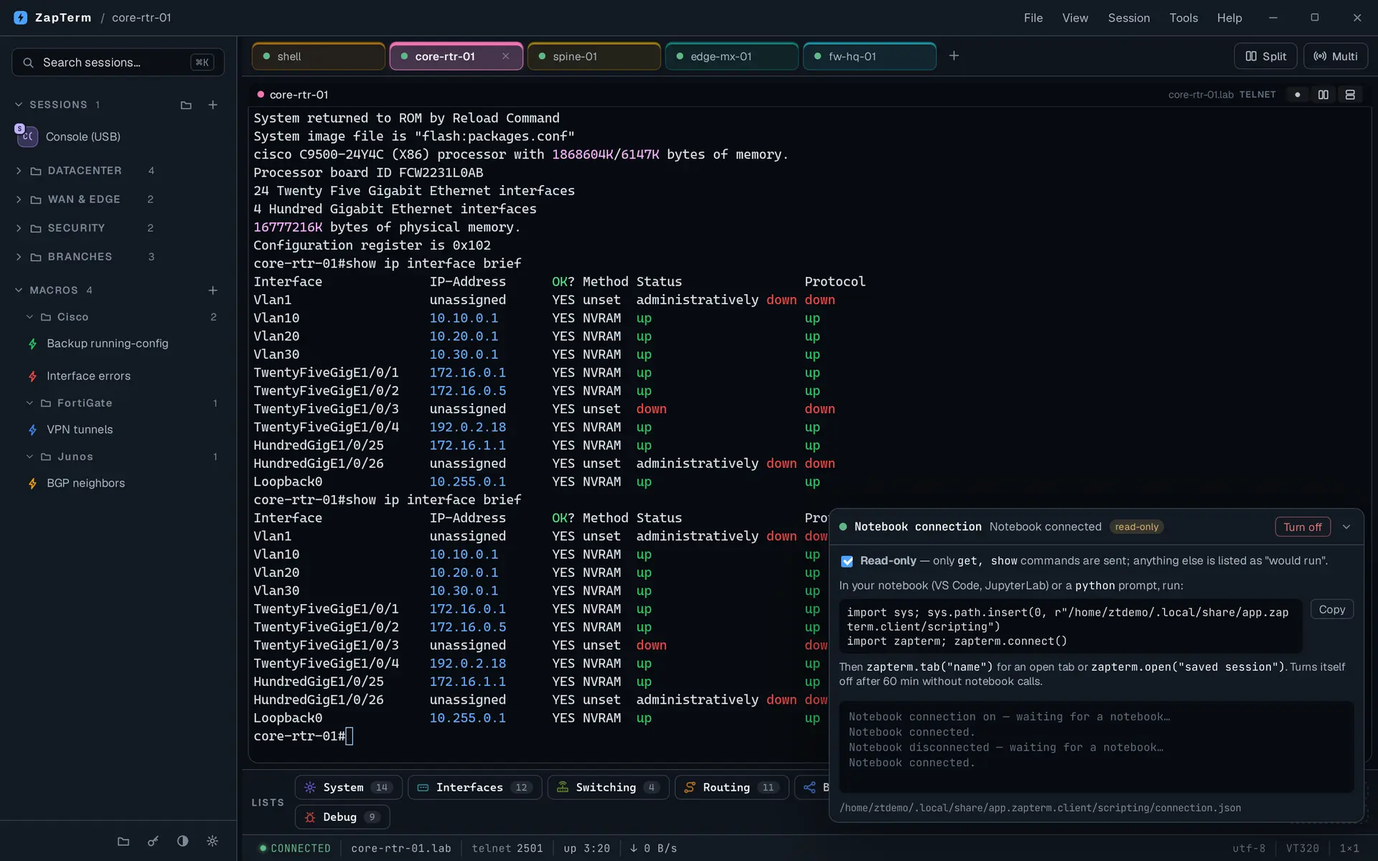
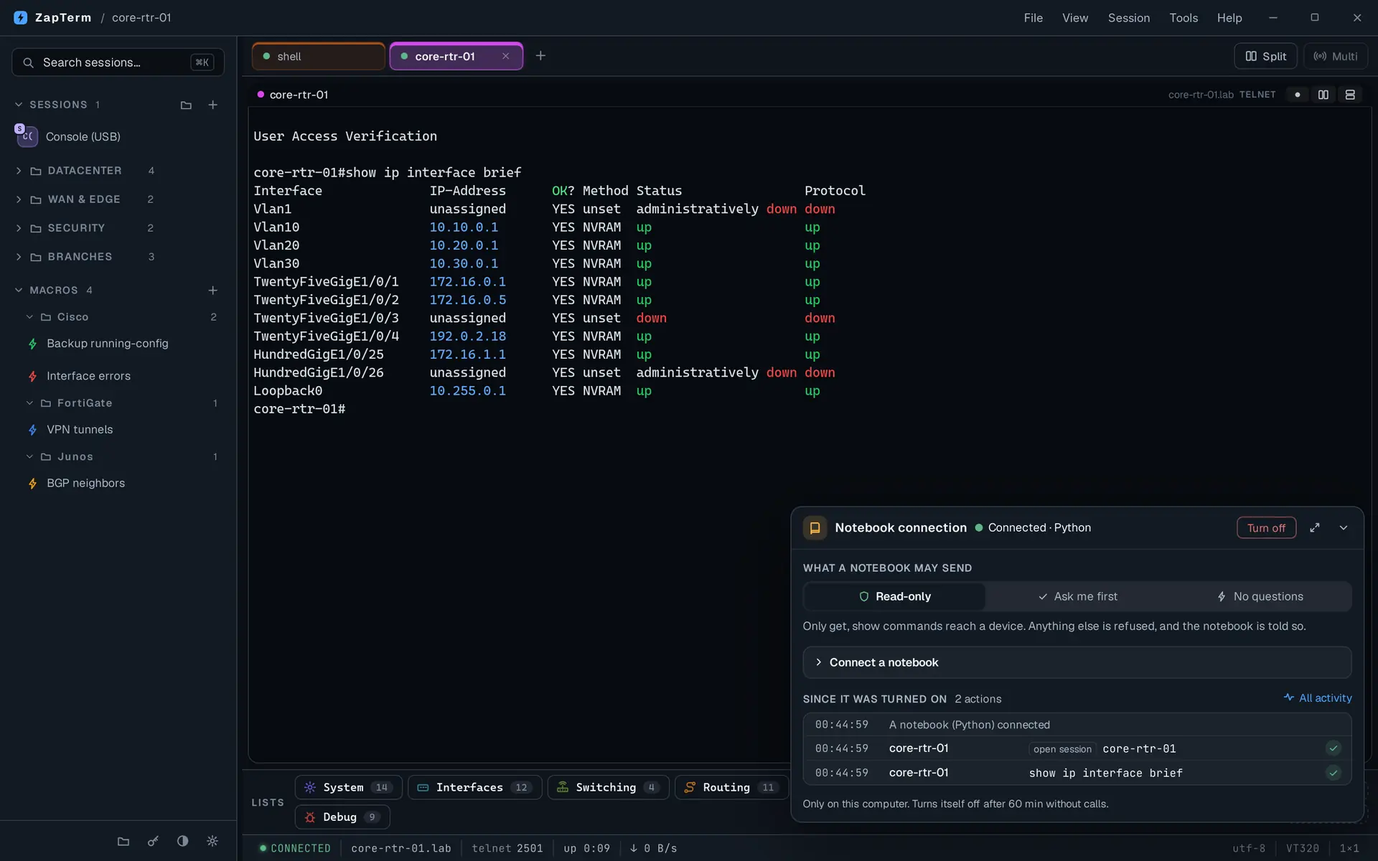
Website: update for 1.9.0
- Home: Run & compare in the workspace feature (new screenshot, SEND TO
  ALL wording), a feature for the AI assistant, bulk add of devices, and
  the privacy answer now says what an assistant receives.
- Automation: notebooks section follows the new panel (Tools -> Notebook
  connection, three levels); new sections for the AI assistant (MCP) and
  for the automation activity record; refreshed Tools menu and notebook
  screenshots.
- Q&A: new answers on the AI assistant (what it is, its limits, what it
  sees), the activity record, bulk add and --More-- paging; updated answers
  for side-by-side work, notebooks, privacy and updates (macOS).
- Privacy policy: the activity record among the data kept on the device,
  and a section on optional AI assistants. Dated for 1.9.0.

Screenshots are of the real app against simulated lab devices.

Claude-Session: https://claude.ai/code/session_013pWZVjAGGTih8bVJEUnWku

Changed region(s): [[0.4062, 0.4317, 1.0, 0.9558], [0.1875, 0.1233, 0.625, 0.8633], [0.2812, 0.0308, 0.6875, 0.0925]]

diff --git a/site/automation.html b/site/automation.html
@@ -4,7 +4,7 @@
   <meta charset="utf-8">
   <meta name="viewport" content="width=device-width, initial-scale=1">
   <title>Automation — ZapTerm</title>
-  <meta name="description" content="Automate network devices with Python from ZapTerm: scripts that run on many devices with Dry run and Read-only modes, Jinja2 templates, and Jupyter or VS Code notebooks driving real terminal tabs.">
+  <meta name="description" content="Automate network devices from ZapTerm: Python scripts with Dry run and Read-only modes, Jinja2 templates, Jupyter or VS Code notebooks, and an AI assistant over MCP that works within the limits you set — all in real terminal tabs, with a record of every command.">
   <meta name="theme-color" content="#0b0d14">
   <link rel="icon" href="icon.svg" type="image/svg+xml">
   <link rel="stylesheet" href="style.css">
@@ -36,12 +36,13 @@
     <div class="wrap">
       <p class="kicker">Automation</p>
       <h1>Python drives the devices.<br><span class="grad">You watch every command.</span></h1>
-      <p class="lede">ZapTerm runs your Python scripts and notebooks against the sessions you already
-        have. Every command is typed in a real terminal tab, through the same jump hosts, vault passwords
-        and login scripts as when you connect by hand — so nothing happens out of sight.</p>
+      <p class="lede">ZapTerm runs your Python scripts and notebooks — and lets an AI assistant work — against
+        the sessions you already have. Every command is typed in a real terminal tab, through the same jump
+        hosts, vault passwords and login scripts as when you connect by hand — so nothing happens out of sight.</p>
       <nav class="auto-toc" aria-label="On this page">
         <a href="#how">How it works</a><a href="#run">Run a script</a><a href="#audit">Example: audit</a>
-        <a href="#template">Example: Jinja2 template</a><a href="#notebooks">Notebooks</a><a href="#api">API</a>
+        <a href="#template">Example: Jinja2 template</a><a href="#notebooks">Notebooks</a>
+        <a href="#assistant">AI assistant</a><a href="#activity">Activity</a><a href="#api">API</a>
       </nav>
     </div>
   </section>
@@ -49,8 +50,8 @@
   <section id="how" class="auto-section">
     <div class="wrap">
       <h2>How it works</h2>
-      <div class="auto-flow" aria-label="Your script asks ZapTerm to run a command; ZapTerm types it in a terminal tab connected to the device and returns the output.">
-        <div class="auto-box"><b>Your script or notebook</b><code>out = sw.run("show version")</code><span>decides what to do</span></div>
+      <div class="auto-flow" aria-label="Your script, notebook or AI assistant asks ZapTerm to run a command; ZapTerm types it in a terminal tab connected to the device and returns the output.">
+        <div class="auto-box"><b>Your script, notebook or assistant</b><code>out = sw.run("show version")</code><span>decides what to do</span></div>
         <div class="auto-arrow" aria-hidden="true">⇄</div>
         <div class="auto-box accent"><b>ZapTerm</b><code>a real tab you can see</code><span>connects, types, reads the output</span></div>
         <div class="auto-arrow" aria-hidden="true">⇄</div>
@@ -78,7 +79,7 @@
       <div class="auto-two">
       <figure class="window auto-shot">
         <div class="window-bar"><i></i><i></i><i></i></div>
-        <img src="img/auto-tools-menu.webp" width="860" height="420" alt="The Tools menu with Run Python script, Script examples, Allow notebook connection, Send command list, Active tunnels and Settings." loading="lazy" data-zoom>
+        <img src="img/auto-tools-menu.webp" width="859" height="420" alt="The Tools menu with Run Python script, Script examples, AI assistant (MCP), Notebook connection, Automation activity, Send command list, Active tunnels and Settings." loading="lazy" data-zoom>
       </figure>
       <figure class="window auto-shot">
         <div class="window-bar"><i></i><i></i><i></i></div>
@@ -225,7 +226,7 @@ for row in rows:
         look at what the device really prints, write the parsing against it, try again. A Jupyter notebook in
         JupyterLab or VS Code does that, driving ZapTerm's tabs with the same <code>zapterm</code> module.</p>
       <ol class="auto-steps">
-        <li><b>Tools → Allow notebook connection…</b> The panel shows the two lines a notebook needs; Copy puts them on the
+        <li><b>Tools → Notebook connection…</b> The panel shows the two lines a notebook needs; Copy puts them on the
           clipboard. It is local to your computer, off by default, and turns itself off after 60 minutes without
           notebook calls.</li>
         <li><b>In the notebook,</b> <code>import zapterm</code> and <code>zapterm.connect()</code>. Then
@@ -235,7 +236,7 @@ for row in rows:
       </ol>
       <figure class="window auto-shot narrow">
         <div class="window-bar"><i></i><i></i><i></i></div>
-        <img src="img/auto-notebook-panel.webp" width="1130" height="665" alt="The Notebook connection panel: waiting for a notebook, Read-only ticked, and the sys.path and import lines to paste into the notebook." loading="lazy" data-zoom>
+        <img src="img/auto-notebook-panel.webp" width="1210" height="920" alt="The Notebook connection panel: waiting for a notebook, what a notebook may send set to Read-only (the other levels are Ask me first and No questions), the sys.path and import lines to paste into the notebook, and an empty list of what was sent since it was turned on." loading="lazy" data-zoom>
       </figure>
       <div class="auto-two tall">
       <figure class="window auto-shot">
@@ -245,14 +246,79 @@ for row in rows:
       </figure>
       <figure class="window auto-shot">
         <div class="window-bar"><i></i><i></i><i></i></div>
-        <img src="img/auto-notebook-zapterm.webp" width="1920" height="1200" alt="ZapTerm at the same time: the core-rtr-01 tab shows show ip interface brief typed by the notebook, and the panel says Notebook connected, read-only." loading="lazy" data-zoom>
+        <img src="img/auto-notebook-zapterm.webp" width="1920" height="1200" alt="ZapTerm at the same time: the core-rtr-01 tab shows show ip interface brief typed by the notebook, and the panel says Connected · Python, Read-only, and lists the session it opened and the command it sent." loading="lazy" data-zoom>
         <figcaption>…and ZapTerm at the same moment.</figcaption>
       </figure>
       </div>
-      <p class="auto-note">A notebook starts <b>read-only</b>: only <code>get</code> and <code>show</code> reach the device.
-        Untick Read-only in the panel only when you mean to change something — bigger changes belong in a script you've
-        dry-run. When the cells work, copy them into a <code>.py</code> file, loop over <code>zapterm.sessions(folder)</code>
+      <p class="auto-note">A notebook starts <b>Read-only</b>: only <code>get</code> and <code>show</code> reach the device.
+        Move the panel's control to <b>Ask me first</b> when you mean to change something: ZapTerm then shows each
+        other command and waits for your Yes. Bigger changes belong in a script you've dry-run. When the cells work, copy them into a <code>.py</code> file, loop over <code>zapterm.sessions(folder)</code>
         and add <code>report()</code> lines.</p>
+    </div>
+  </section>
+
+  <section id="assistant" class="auto-section">
+    <div class="wrap">
+      <h2>An AI assistant, on your terms</h2>
+      <p class="auto-lede">Ask in plain words — "which interfaces are down on core-rtr-01?", "compare the HA state of
+        the two firewalls" — and an assistant that speaks MCP (the Model Context Protocol) runs the commands through
+        ZapTerm and reads the answers. It gets the same deal as a script: real tabs you can watch, and rules that
+        ZapTerm enforces, whatever the assistant decides.</p>
+      <ol class="auto-steps">
+        <li><b>Tools → AI assistant (MCP)…</b> The panel shows the configuration to paste into your assistant
+          (Claude Desktop, or any other MCP client that can start a local server); Copy puts it on the clipboard.
+          It points at <code>zapterm_mcp.py</code>, plain Python with no packages to install.</li>
+        <li><b>Quit the assistant completely and open it again,</b> so it reads the configuration.</li>
+        <li><b>Ask it something about a device.</b> The panel shows who connected, by name, and every command as
+          it happens.</li>
+      </ol>
+      <figure class="window auto-shot">
+        <div class="window-bar"><i></i><i></i><i></i></div>
+        <img src="img/auto-assistant.webp" width="1920" height="1200" alt="ZapTerm with an AI assistant connected in Read-only. The fw-hq-01 tab shows get system status typed by the assistant; the panel lists what it sent since it was turned on — open session fw-hq-01, get system status, get system performance status, show ip bgp summary and show interfaces status on core-rtr-01 — and marks 'configure terminal' as blocked." loading="lazy" data-zoom>
+      </figure>
+      <div class="auto-modes">
+        <div><span class="mode ro">Read-only</span><p>The default. Only commands starting with <code>get</code> or
+          <code>show</code> (the same list as for scripts, set in the Run script dialog) reach a device. Anything else is refused, and the assistant is
+          told it was not sent.</p></div>
+        <div><span class="mode dry">Ask me first</span><p>Display commands go straight through. Before any other
+          command, ZapTerm shows it to you, says who is asking, and waits for your Yes.</p></div>
+        <div><span class="mode real">No questions</span><p>Every command is sent as it comes. Only for work you
+          would hand over without watching.</p></div>
+      </div>
+      <div class="auto-points">
+        <div><h3>What it can do</h3><p>List open tabs and saved sessions, open a saved session, run a command in a
+          tab and read its output, and ask which level is on. Five tools, nothing else.</p></div>
+        <div><h3>What it can't</h3><p>See or type a password: ZapTerm logs in from its vault, and no tool exposes
+          one. Nor chain commands past the rules — a line with <code>;</code>, <code>|</code>, <code>&amp;</code>,
+          <code>&lt;</code>, <code>&gt;</code>, a backtick or <code>$(</code> is not a display command.</p></div>
+        <div><h3>One at a time, only on this computer</h3><p>The connection is local, off until you turn it on,
+          accepts one client, and turns itself off after 60 minutes without calls. A notebook is refused while
+          the assistant's entry is on, and the other way round.</p></div>
+      </div>
+      <p class="auto-note"><b>What leaves your computer:</b> ZapTerm sends nothing anywhere. But what your devices
+        print in answer to the assistant's commands goes to that assistant, and so to its provider — think about
+        which devices and which commands you let it reach. Passwords are not part of it.</p>
+    </div>
+  </section>
+
+  <section id="activity" class="auto-section">
+    <div class="wrap">
+      <h2>A record of everything that was sent</h2>
+      <p class="auto-lede">Every command a script, a notebook or an assistant sent — or tried to send — is written to a
+        plain text file on your computer, one line per event: when, who, on which device, the command, and what
+        became of it. <b>Tools → Automation activity…</b> shows it with counters, filters and search.</p>
+      <figure class="window auto-shot">
+        <div class="window-bar"><i></i><i></i><i></i></div>
+        <img src="img/auto-activity.webp" width="1600" height="1173" alt="Automation activity: 9 actions, 8 sent and 1 blocked, with the last 14 days. One card per visit: the assistant's, with the sessions it opened, the commands it ran on fw-hq-01 and core-rtr-01 and 'configure terminal' blocked by Read-only; and a notebook's, with show ip interface brief." loading="lazy" data-zoom>
+      </figure>
+      <div class="auto-points">
+        <div><h3>What became of each command</h3><p>Sent, blocked by Read-only, declined by you, approved and sent,
+          no prompt in time, or an error — with how long it took.</p></div>
+        <div><h3>Commands, not output</h3><p>Only the command line is kept, never what the device printed (session
+          logging does that). Passwords that ZapTerm recognises in a command are masked: <code>set password ******</code>.</p></div>
+        <div><h3>Yours to keep or delete</h3><p>One file per month in the logs folder, tab-separated, readable in any
+          editor or spreadsheet. <b>Open file</b> and <b>Folder</b> take you there.</p></div>
+      </div>
     </div>
   </section>
 
@@ -267,7 +333,7 @@ for row in rows:
             <tr><td><code>zapterm.open(name)</code></td><td>Open a saved session in a new tab and wait until it is connected.</td></tr>
             <tr><td><code>zapterm.tab(name)</code> / <code>tabs()</code></td><td>A tab already open, by name / all open tabs.</td></tr>
             <tr><td><code>zapterm.sessions(folder)</code></td><td>Names of the saved sessions, or only those in a folder and its sub-folders.</td></tr>
-            <tr><td><code>s.run(cmd, timeout=30)</code></td><td>Type a command, wait for the prompt, return the output.</td></tr>
+            <tr><td><code>s.run(cmd, timeout=30)</code></td><td>Type a command, wait for the prompt, return the output. With <code>strict=True</code> it raises when Read-only keeps the command from being sent.</td></tr>
             <tr><td><code>s.send(text)</code> / <code>s.expect(pattern)</code></td><td>Type without waiting / wait for a text or regex to appear.</td></tr>
             <tr><td><code>s.send_secret("Name.Password")</code></td><td>Type a vault credential; the script never sees it.</td></tr>
             <tr><td><code>s.poll(cmd, until, every, max)</code></td><td>Repeat a command until a condition holds or time runs out.</td></tr>

diff --git a/site/faq.html b/site/faq.html
@@ -35,7 +35,7 @@
     <header class="section-head">
       <p class="kicker">Q&amp;A</p>
       <h1>Questions people ask</h1>
-      <p>Answers describe the latest version, <b data-version>v1.7.12</b>, and are updated with every release.</p>
+      <p>Answers describe the latest version, <b data-version>v1.9.0</b>, and are updated with every release.</p>
     </header>
 
     <div class="faq-tools">
@@ -107,7 +107,15 @@
         </details>
         <details id="many-at-once">
           <summary>Can I work on several devices side by side?</summary>
-          <p>Yes. Split a tab into panes as many times as you like, open a group of hosts as a grid, and broadcast what you type to all of them. Compare shows their output together so differences stand out.</p>
+          <p>Yes. Split a tab into panes as many times as you like, or open a group of hosts as a grid. Turn on Multi (it is per tab, and needs at least two sessions) and the SEND TO ALL bar types what you write in every session of that tab. Run &amp; compare then says whether they all answered the same and, when they didn't, shows the differences side by side; each pane's header is marked = (same everywhere) or A, B… (which version it printed).</p>
+        </details>
+        <details id="pager">
+          <summary>What happens when a device stops at --More-- while I compare?</summary>
+          <p>ZapTerm presses Space for you in that session until the prompt comes back (up to 200 pages), so the whole output is compared; the pager prompts themselves are left out of the comparison. It does the same for a line sent with Enter in the SEND TO ALL bar. "Page through --More--" in that bar turns it off. What you type straight into a pane is left alone.</p>
+        </details>
+        <details id="bulk-add">
+          <summary>Can I add many devices at once?</summary>
+          <p>Yes: File → Add devices in bulk… Paste one device per line (<code>host</code>, <code>host:port</code>, <code>name host</code> or <code>name host port</code>) or open a CSV file whose first line names the columns (name, host, port, protocol, username, folder, tags, notes, credential, jump_host). A preview marks every row New, Exists or Error before anything is added; devices already in the inventory are skipped. The credential and the jump host are given by name, so no password is ever in the list.</p>
         </details>
       </section>
       <section class="faq-group" data-group="lists">
@@ -149,7 +157,23 @@
         </details>
         <details id="notebooks">
           <summary>Can I use a Jupyter notebook or VS Code?</summary>
-          <p>Yes. Turn on Tools → Allow notebook connection…, then <code>import zapterm</code> and <code>zapterm.connect()</code> from a notebook or a Python prompt you started yourself. Every call is carried out on a real ZapTerm tab, so you see it happen.</p>
+          <p>Yes. Turn on Tools → Notebook connection…, then <code>import zapterm</code> and <code>zapterm.connect()</code> from a notebook or a Python prompt you started yourself. Every call is carried out on a real ZapTerm tab, so you see it happen. It starts Read-only; the panel has the same three levels as for an AI assistant.</p>
+        </details>
+        <details id="ai-assistant">
+          <summary>Can I connect an AI assistant such as Claude?</summary>
+          <p>Yes, any assistant that speaks MCP (the Model Context Protocol) and can start a local server, such as Claude Desktop. Tools → AI assistant (MCP)… shows the configuration to paste into it; it points at <code>zapterm_mcp.py</code>, plain Python with no packages to install. The assistant can list your tabs and saved sessions, open a session and run commands, all through ZapTerm's tabs, where you see them. <a href="automation.html#assistant">How it works →</a></p>
+        </details>
+        <details id="ai-limits">
+          <summary>Can the assistant change the configuration of my devices?</summary>
+          <p>Only if you let it. "What the assistant may send" has three levels: Read-only (the default — only commands starting with <code>get</code> or <code>show</code> reach a device, the same list as for scripts, and anything else is refused), Ask me first (ZapTerm shows each other command and waits for your Yes) and No questions (everything is sent). ZapTerm enforces the level, not the assistant: a refused command never reaches the device, and the assistant is told so.</p>
+        </details>
+        <details id="ai-privacy">
+          <summary>What does the assistant see? Does it get my passwords?</summary>
+          <p>It sees the names of your tabs and saved sessions, and what a device prints in answer to the commands it runs — that text goes to the assistant and so to its provider, so choose which devices and commands you let it reach. It never gets a password: ZapTerm logs in from its vault and no tool exposes or types one. The connection is local to your computer, off until you turn it on, and turns itself off after 60 minutes without calls.</p>
+        </details>
+        <details id="activity">
+          <summary>Is there a record of what a script, notebook or assistant did?</summary>
+          <p>Yes. Every command sent or attempted is written to a text file on your computer (one per month, in the logs folder): when, who, on which device, the command, and whether it was sent, blocked by Read-only, declined by you, approved, timed out or failed. Tools → Automation activity… shows it with counters, filters and search. Only the command line is kept, not the device's output, and passwords that ZapTerm recognises in a command are masked (<code>set password ******</code>).</p>
         </details>
         <details id="netconf">
           <summary>Does ZapTerm support NETCONF or RESTCONF?</summary>
@@ -160,11 +184,12 @@
         <h2>Privacy, updates &amp; licence</h2>
         <details id="privacy">
           <summary>Does it send any data anywhere?</summary>
-          <p>No. There is no account, no telemetry and no automatic update check: the app only connects to the devices you open, and to GitHub when you use Help → Check for updates. (This website asks GitHub for the latest release to point the download buttons at it.)</p>
+          <p>ZapTerm doesn't. There is no account, no telemetry and no automatic update check: the app only connects to the devices you open, and to GitHub when you use Help → Check for updates. (This website asks GitHub for the latest release to point the download buttons at it.)</p>
+          <p>The one thing to know: if you connect an AI assistant (Tools → AI assistant (MCP)…, off unless you turn it on), what your devices print in answer to its commands goes to that assistant, and so to its provider. Passwords do not.</p>
         </details>
         <details id="updates">
           <summary>How do I update ZapTerm?</summary>
-          <p>Help → Check for updates… asks GitHub for the newest version and shows it with its release notes. If you want it, ZapTerm downloads the installer that matches your copy, checks it against the SHA-256 GitHub publishes, and starts it (on Windows ZapTerm closes so the installer can replace it). Copies from the Microsoft Store are updated by the Store. Nothing is checked or downloaded unless you open that dialog.</p>
+          <p>Help → Check for updates… asks GitHub for the newest version and shows it with its release notes. If you want it, ZapTerm downloads the installer that matches your copy, checks it against the SHA-256 GitHub publishes, and starts it: on Windows ZapTerm closes so the installer can replace it; on macOS ZapTerm closes, the new version takes the place of the old one and ZapTerm opens again (if it can't replace itself, the disk image opens for you to drag it to Applications). Your sessions, vault and settings are not touched. Copies from the Microsoft Store are updated by the Store. Nothing is checked or downloaded unless you open that dialog.</p>
         </details>
         <details id="licence">
           <summary>Is it really free?</summary>

diff --git a/site/index.html b/site/index.html
@@ -40,11 +40,11 @@
   <section class="hero">
     <div class="glow glow-a"></div><div class="glow glow-b"></div>
     <div class="wrap hero-inner">
-      <p class="eyebrow"><span class="dot"></span> Latest <span data-version>v1.7.12</span> · free &amp; open source</p>
+      <p class="eyebrow"><span class="dot"></span> Latest <span data-version>v1.9.0</span> · free &amp; open source</p>
       <h1>The terminal built for<br><span class="grad">network engineers</span></h1>
       <p class="lede">SSH, Telnet and Serial in one fast app. Command lists for every vendor you touch,
-        hints as you type, split panes, broadcast to many devices, a credential vault and
-        Python automation — on Windows, macOS and Linux.</p>
+        hints as you type, split panes, broadcast to many devices, a credential vault,
+        Python automation and a safe way to let an AI assistant help — on Windows, macOS and Linux.</p>
       <div class="cta">
         <a class="btn btn-primary" href="#download" data-dl-primary>Download ZapTerm</a>
         <a class="btn btn-ghost" href="https://github.com/CarlosTejeiro/ZapTerm">View source</a>
@@ -117,17 +117,19 @@
       <article class="feature">
         <div class="feature-text">
           <span class="tag">Workspace</span>
-          <h3>Split panes and broadcast</h3>
+          <h3>Split panes, broadcast and compare</h3>
           <p>Split any tab into panes and watch a router, a switch and a firewall side by side.
-            Turn on <b>Multi</b> and one master input sends the same command to every pane —
-            with <b>Run &amp; compare</b> to line the outputs up.</p>
+            Turn on <b>Multi</b> and the <b>SEND TO ALL</b> bar types the same command in every pane
+            of the tab. <b>Run &amp; compare</b> then tells you whether they all answered the same —
+            and shows the differences side by side when they didn't.</p>
           <ul class="ticks">
-            <li>Recursive splits, horizontal and vertical</li>
+            <li>Each pane is marked <b>=</b>, <b>A</b> or <b>B</b>: which answer it gave</li>
+            <li>Pages through <code>--More--</code> for you, so nothing is compared cut short</li>
             <li>Broadcast groups open many hosts as a grid</li>
             <li>Command palette (<kbd>Ctrl</kbd>+<kbd>K</kbd>) for sessions and actions</li>
           </ul>
         </div>
-        <figure class="shot"><img src="img/multi.webp" width="1920" height="1200" alt="Three panes — a Cisco core router, an Arista spine and a FortiGate — with the broadcast bar at the bottom about to send 'show version' to all three hosts." data-zoom></figure>
+        <figure class="shot"><img src="img/compare.webp" width="1920" height="1200" alt="Two FortiGates of an HA pair side by side with Multi on. Run &amp; compare of 'get system status' says Output differs: 2 versions, marks the panes A and B, and shows the four lines that differ side by side: IPS database, serial number, hostname and HA role." data-zoom></figure>
       </article>
 
       <article class="feature flip">
@@ -156,6 +158,7 @@
             sessions, port forwarding, anti-idle keepalives and macros that run on connect.</p>
           <ul class="ticks">
             <li>Import from <code>~/.ssh/config</code>, PuTTY, MobaXterm and SecureCRT</li>
+            <li>Add devices in bulk from a pasted list or a CSV file</li>
             <li>Login automation with expect / send steps</li>
             <li>SFTP browser with streaming transfers</li>
           </ul>
@@ -188,6 +191,24 @@
           <figure class="shot"><img src="img/script-run.webp" width="990" height="580" alt="The Run script dialog for hello.py with Dry run, Read-only and Run modes." data-zoom></figure>
           <figure class="shot"><img src="img/script-panel.webp" width="1124" height="470" alt="The script panel after a dry run: core-rtr-01 OK, and a log saying it would run 'uname -a'." data-zoom></figure>
         </div>
+      </article>
+
+      <article class="feature flip">
+        <div class="feature-text">
+          <span class="tag">AI assistant</span>
+          <h3>Let an assistant look — you set the limits</h3>
+          <p>Connect an AI assistant that speaks MCP (Claude Desktop, or any other MCP client) and ask it
+            about your network in plain words. It works through ZapTerm's tabs, where you see every command,
+            and ZapTerm — not the assistant — decides what may be sent.</p>
+          <ul class="ticks">
+            <li><b>Read-only</b> by default: only display commands reach a device</li>
+            <li><b>Ask me first</b>: any other command waits for your Yes</li>
+            <li>No tool shows or types a password; ZapTerm logs in from its vault</li>
+            <li>Everything it sent, or tried to send, is kept in a text file on your computer</li>
+          </ul>
+          <p><a href="automation.html#assistant">How to connect one, and what it can do →</a></p>
+        </div>
+        <figure class="shot"><img src="img/auto-assistant.webp" width="1920" height="1200" alt="ZapTerm with an AI assistant connected in Read-only: the panel lists what it sent since it was turned on — open session fw-hq-01, get system status, show ip bgp summary on core-rtr-01 — and marks 'configure terminal' as blocked." data-zoom></figure>
       </article>
     </div>
   </section>
@@ -280,7 +301,7 @@
       <header class="section-head">
         <p class="kicker">Q&amp;A</p>
         <h2>Questions people ask</h2>
-        <p>Answers describe the latest version, <b data-version>v1.7.12</b>, and are updated with every release.</p>
+        <p>Answers describe the latest version, <b data-version>v1.9.0</b>, and are updated with every release.</p>
       </header>
       <div class="faq-list">
         <form class="faq-search" action="faq.html" method="get" role="search">
@@ -298,7 +319,8 @@
         </details>
         <details id="privacy">
           <summary>Does it send any data anywhere?</summary>
-          <p>No. There is no account, no telemetry and no automatic update check: the app only connects to the devices you open, and to GitHub when you use Help → Check for updates. (This website asks GitHub for the latest release to point the download buttons at it.)</p>
+          <p>ZapTerm doesn't. There is no account, no telemetry and no automatic update check: the app only connects to the devices you open, and to GitHub when you use Help → Check for updates. (This website asks GitHub for the latest release to point the download buttons at it.)</p>
+          <p>The one thing to know: if you connect an AI assistant (Tools → AI assistant (MCP)…, off unless you turn it on), what your devices print in answer to its commands goes to that assistant, and so to its provider. Passwords do not.</p>
         </details>
         <details id="import">
           <summary>Can I bring my sessions from another tool?</summary>

diff --git a/site/privacy.html b/site/privacy.html
@@ -32,7 +32,7 @@
     <header class="section-head">
       <p class="kicker">Privacy</p>
       <h1>Privacy policy</h1>
-      <p>Last updated: 22 November 2026 (version 1.7.16)</p>
+      <p>Last updated: 25 November 2026 (version 1.9.0)</p>
     </header>
 
     <p>ZapTerm is a free, open-source terminal application for network engineers, developed by
@@ -58,6 +58,10 @@
         keys.</li>
       <li>The commands you recently ran, to offer them again.</li>
       <li>Session logs, when you record a session.</li>
+      <li>The automation activity record: the commands that scripts, notebooks or an AI assistant
+        sent or tried to send through ZapTerm (when, on which device, and the result), as text
+        files in the logs folder. It holds command lines only, not what the devices printed; passwords
+        that ZapTerm recognises in a command are replaced by asterisks.</li>
     </ul>
     <p>None of this is sent to the developer or to any third party. You can delete it at any
       time by removing the entries in the app or by deleting ZapTerm's data folder.</p>
@@ -85,6 +89,17 @@
     <h3>Scripts</h3>
     <p>Python scripts and notebooks that you run from ZapTerm are your own code and run on your
       device. What they do with the data they read is under your control.</p>
+
+    <h3>AI assistants (optional)</h3>
+    <p>ZapTerm contains no AI and sends nothing to any AI service by itself. If you choose to
+      connect an assistant of your own (Tools → AI assistant (MCP)…, off unless you turn it on),
+      a small program on your computer passes that assistant's requests to ZapTerm and the
+      answers back. The assistant then receives the names of your open tabs and saved sessions
+      and what your devices print in answer to the commands it runs, and its provider's own
+      privacy policy applies to that data. It does not receive passwords: ZapTerm logs in from
+      its vault and offers the assistant no way to read or type one. You decide which commands
+      it may send (display commands only, by default), and you can turn the connection off at
+      any time.</p>
 
     <h2>This website</h2>
     <ul>

diff --git a/site/style.css b/site/style.css
@@ -302,6 +302,8 @@ h3 { font-size: clamp(24px, 2.6vw, 32px); line-height: 1.15; letter-spacing: -0.
 .auto-modes { display: grid; grid-template-columns: repeat(3, 1fr); gap: 16px; margin-top: 24px; }
 .auto-modes > div { background: var(--card); border: 1px solid var(--line); border-radius: var(--radius); padding: 18px; }
 .auto-modes p { color: var(--muted); font-size: 15px; margin: 10px 0 0; }
+.auto-modes + .auto-points, .auto-shot + .auto-points { margin-top: 28px; }
+.feature-text .ticks + p { margin-top: 14px; }
 .mode { display: inline-block; font-size: 13px; font-weight: 600; padding: 3px 10px; border-radius: 999px; }
 .mode.dry { background: rgba(56,189,248,.14); color: #7dd3fc; }
 .mode.ro { background: rgba(234,179,8,.14); color: #fde047; }

diff --git a/site/README.md b/site/README.md
@@ -18,9 +18,10 @@ cd site && python3 -m http.server 8000
   (`faq.js`). Add a question as a `<details id="…">` in its topic: the id is
   its shareable link (`faq.html#id`) and the search picks it up on its own.
   The home page shows a few of them and a search box that opens this page.
-- `automation.html` — Python scripts and notebooks, with the code of two
-  example scripts (`version_audit.py`, `push_template.py` with `ntp.j2` and
-  `devices.csv`) exactly as they were run for the screenshots (`img/auto-*`).
+- `automation.html` — Python scripts, notebooks, the AI assistant (MCP) and
+  the automation activity record, with the code of two example scripts
+  (`version_audit.py`, `push_template.py` with `ntp.j2` and `devices.csv`)
+  exactly as they were run for the screenshots (`img/auto-*`).
 - `privacy.html` — the privacy policy (linked from every footer). It describes what
   the released app and this site actually do; update it before releasing any change in
   how data is handled.
